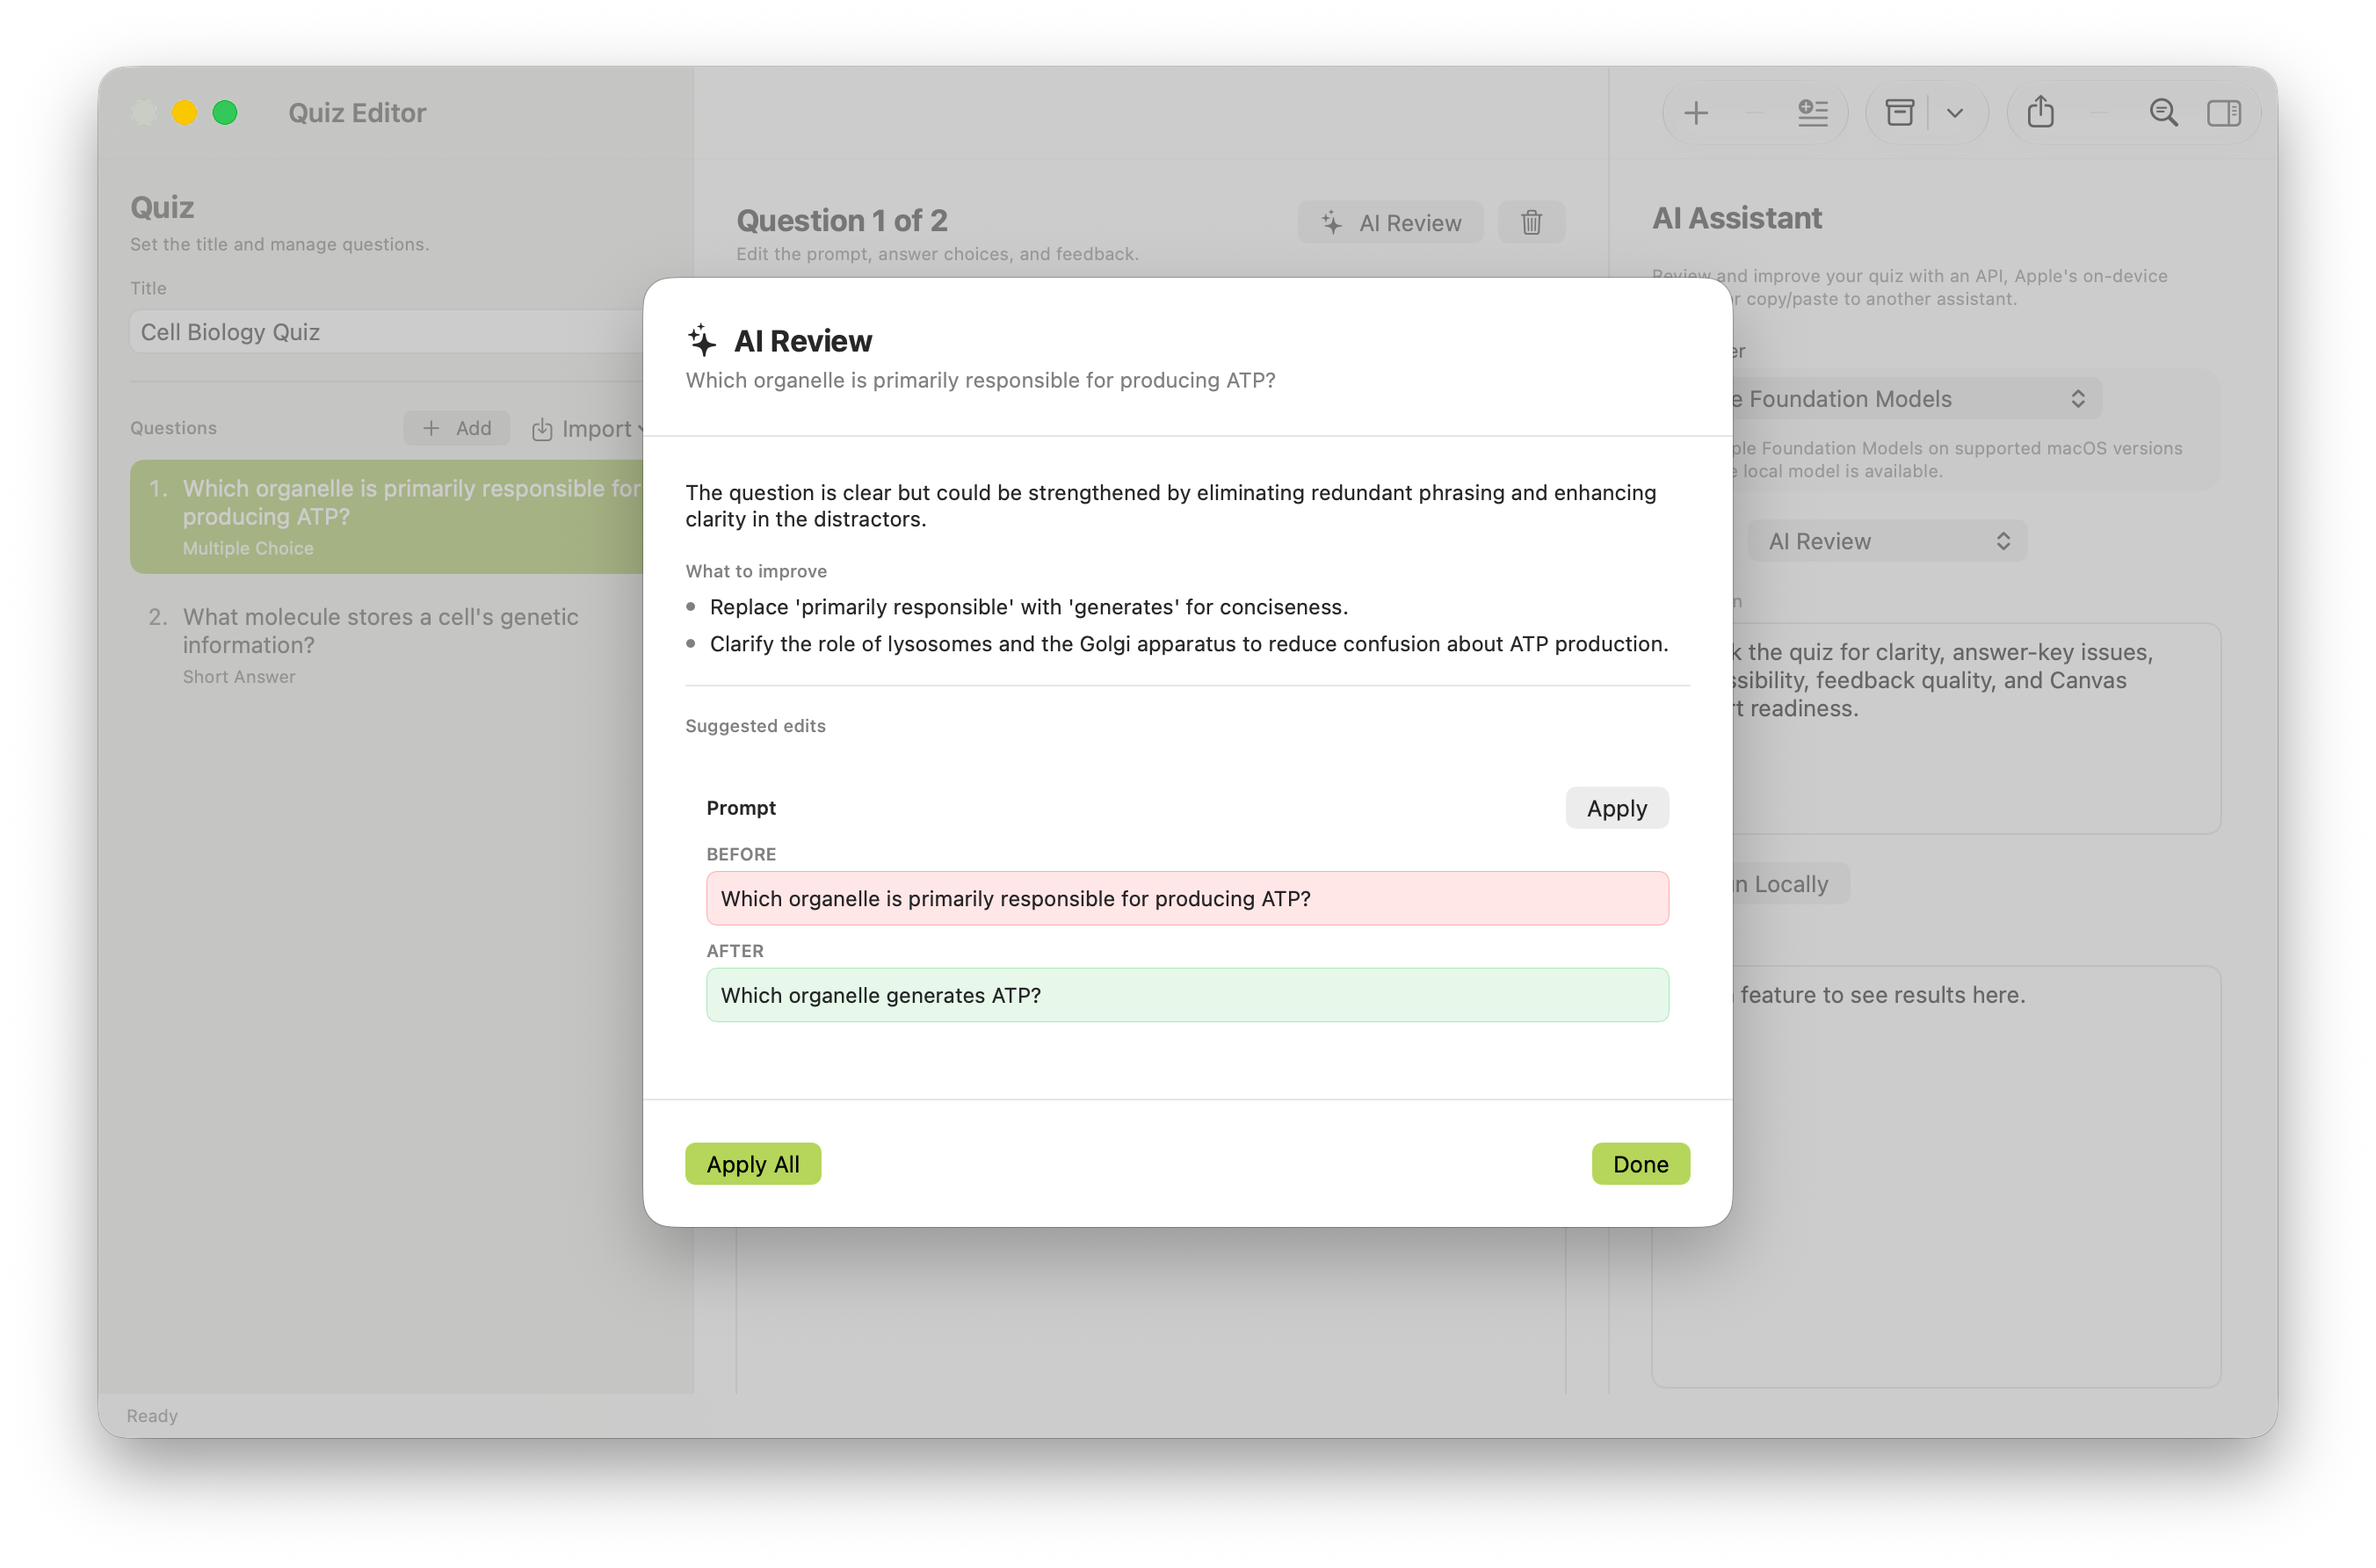
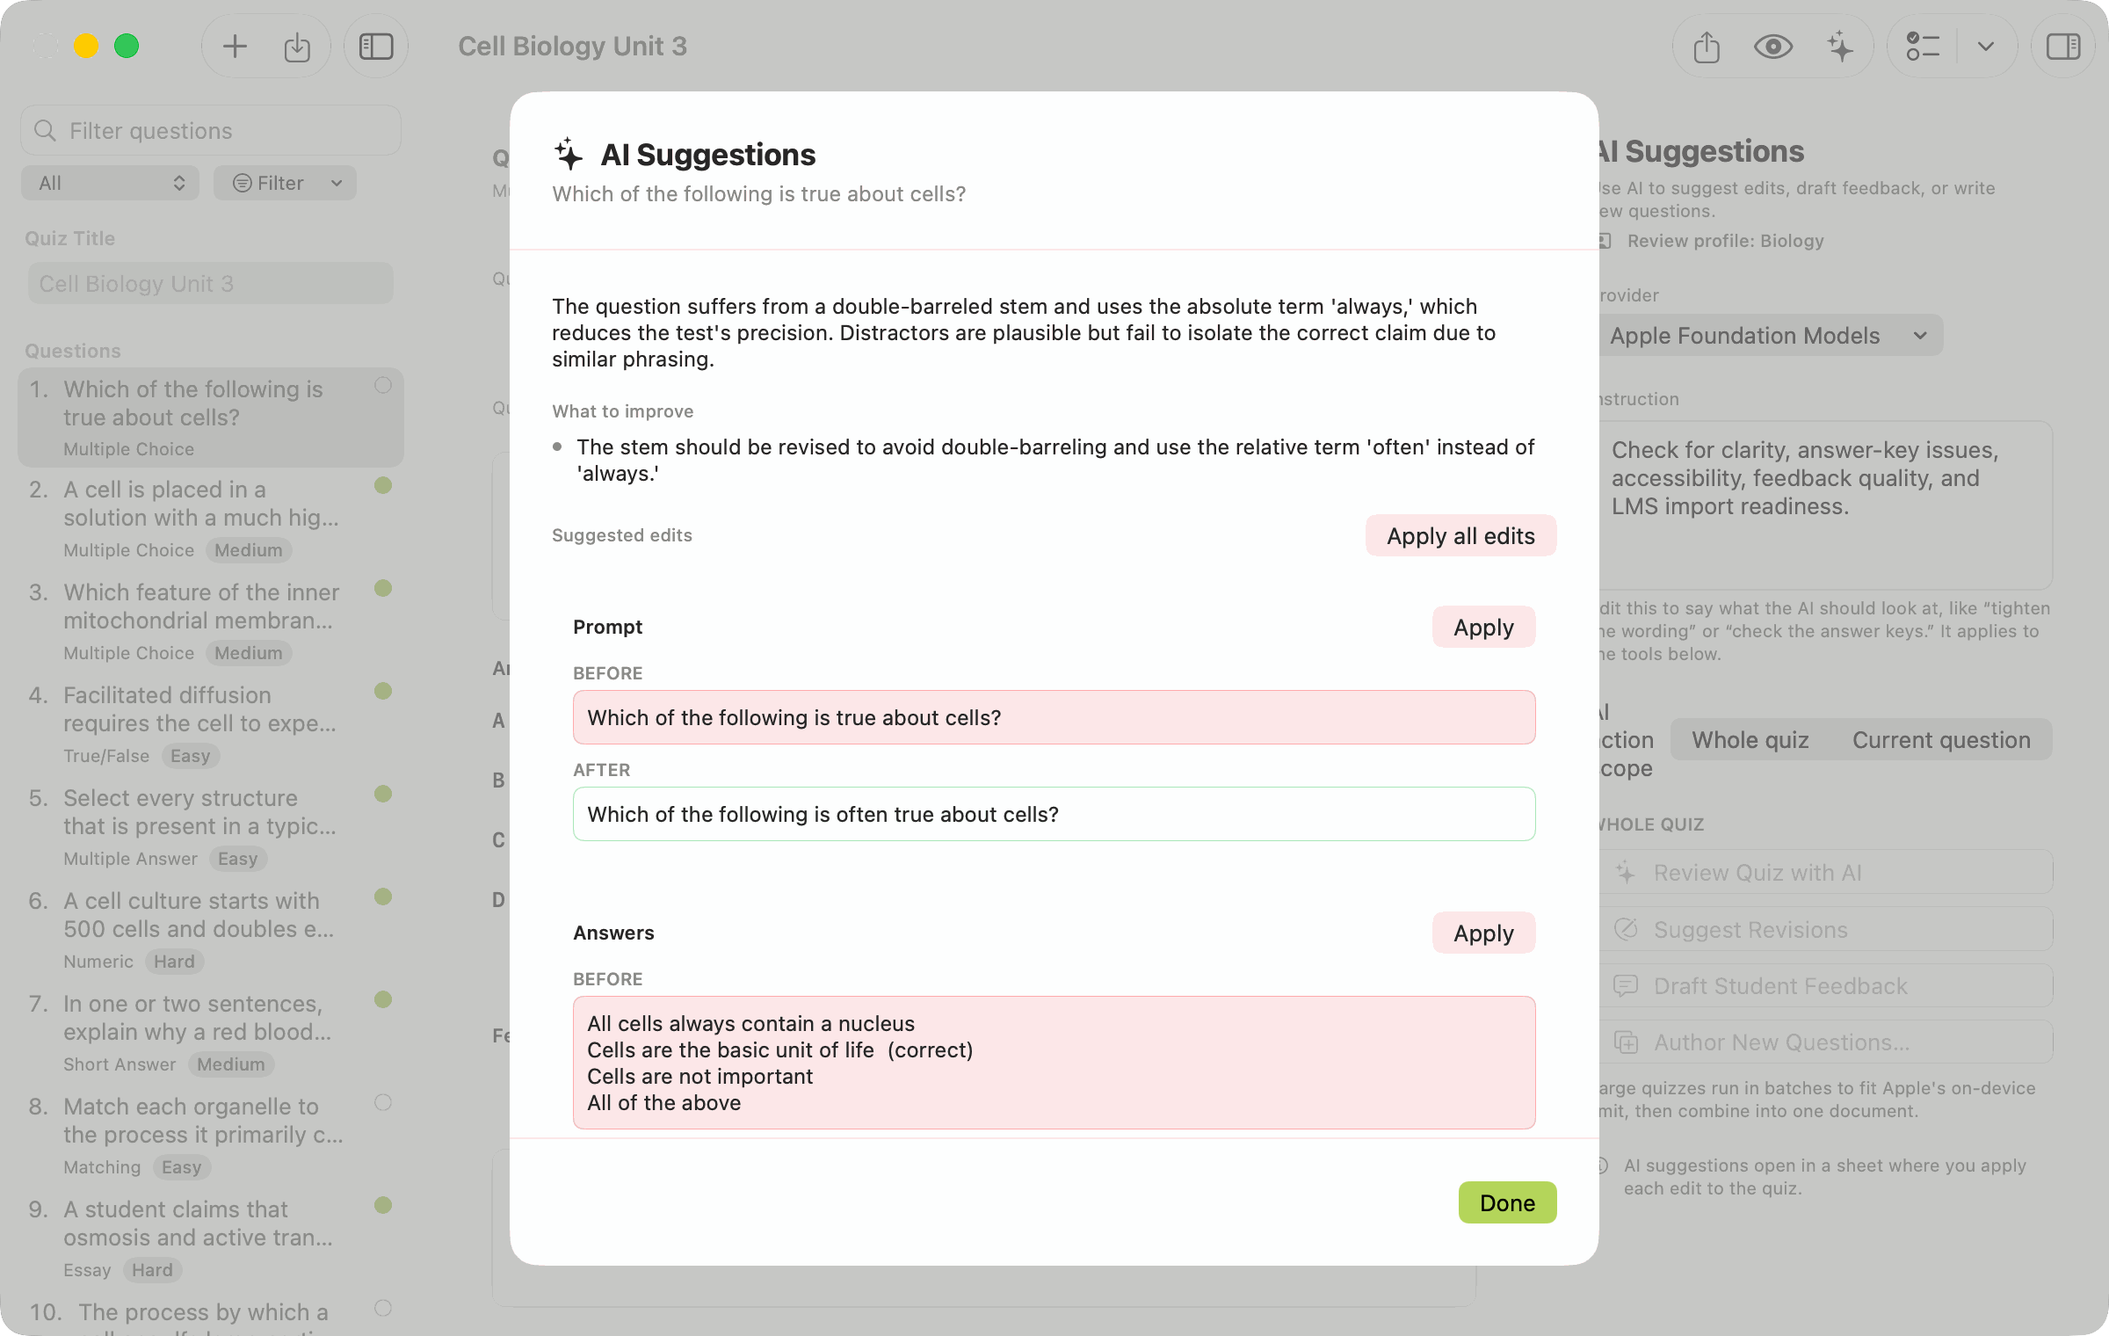
Site: refresh screenshots and review copy for the current app (#86)
The three screenshots predated the editor, toolbar, and sidebar redesign
and the Canvas question-bank import. Recaptured all three against a
10-question sample quiz:

- editor: the redesigned toolbar clusters, readiness dots in the
  sidebar, and the AI Suggestions panel
- ai-review: a real on-device review of a rough draft question,
  including the before/after rewrite with per-field Apply
- import: the Common Cartridge picker grouped by quiz and named bank,
  replacing the empty Marked Text dialog

Copy follows the app's current vocabulary (AI Suggestions, not AI
Assistant), adds the readiness badge, and notes that Canvas banks
arrive named and alphabetized. Palette-quantized the PNGs, which cuts
about 1.2 MB off the page.

Claude-Session: https://claude.ai/code/session_018gHpx1aJWCwS7xLRtM7yVn

diff --git a/docs/index.html b/docs/index.html
@@ -379,7 +379,7 @@
       </div>
       <div class="shot reveal d2">
         <img src="screenshots/editor.png" width="2400" height="1520" fetchpriority="high"
-             alt="The Quiz Editor window: a searchable question sidebar with type and difficulty labels, a question editor with type, points, and difficulty on one row above the prompt and answers, and an AI Assistant panel offering whole-quiz and single-question tools.">
+             alt="The Quiz Editor window: a searchable question sidebar listing ten questions with their type, difficulty, and a readiness dot; a question editor showing a Ready badge, the question type, a formatted stem, four answer choices with the correct one selected, and student feedback; and an AI Suggestions panel set to Apple Foundation Models with whole-quiz tools.">
       </div>
     </div>
   </section>
@@ -435,11 +435,12 @@ Type: Multiple Choice
         <p class="eyebrow"><span class="bubble filled" aria-hidden="true"></span> Review &amp; AI</p>
         <h2 class="sec">A second read for your questions, not just your spelling.</h2>
         <p>A built-in check looks over every question as you write, right on your Mac, and points out the problems experienced test-writers watch for: <strong>a question with no correct answer marked, a "not" or "except" that's easy to miss, one answer that's tellingly longer than the others, an "all of the above," a missing feedback note</strong>. It needs no internet and sees nothing but your own file. Pick a <a href="#personas">discipline</a> and these checks grow field-specific.</p>
-        <p>Want a closer look? The <strong>AI Assistant</strong> works on the whole quiz or a single question: it suggests a clearer rewrite you accept one field at a time, and drafts fresh questions, answer choices, and feedback. Use Apple's on-device models, connect your own AI service, or copy a prompt into any chatbot and paste the reply back. Long quizzes are paged into batches that fit Apple's on-device models and stitched back into one document, so length is never a wall. Your questions stay with you.</p>
+        <p>Every question also carries a plain <strong>readiness badge</strong>, Ready or Needs work, from checks that run on your Mac with no AI involved: a missing correct answer, an empty feedback note, too few choices. The sidebar shows the same signal as a dot, so you can see at a glance which questions are still drafts.</p>
+        <p>Want a closer look? <strong>AI Suggestions</strong> works on the whole quiz or a single question: it explains what to improve, offers a clearer rewrite you accept one field at a time, and drafts fresh questions, answer choices, and feedback. Use Apple's on-device models, connect your own AI service, or copy a prompt into any chatbot and paste the reply back. Long quizzes are paged into batches that fit Apple's on-device models and stitched back into one document, so length is never a wall. Your questions stay with you.</p>
       </div>
       <div class="shot reveal d1">
-        <img src="screenshots/ai-review.png" width="2704" height="1784" loading="lazy"
-             alt="The AI Review sheet: a short critique of a question, a list of item-writing improvements, and a before-and-after rewrite of the prompt you apply field by field.">
+        <img src="screenshots/ai-review.png" width="2400" height="1520" loading="lazy"
+             alt="The AI Suggestions sheet reviewing a rough draft question: a short critique noting a double-barreled stem and the absolute term always, a list of item-writing improvements, and a before-and-after rewrite of the prompt with Apply buttons for each field.">
       </div>
     </div>
   </section>
@@ -513,13 +514,14 @@ Type: Multiple Choice
         <p>When you're done, send it out three ways: <strong>up to your LMS</strong> as a standards-clean QTI file, <strong>into a document</strong> you can share or edit, or <strong>onto paper</strong> as a print-ready exam with its own answer key.</p>
         <ul class="checklist">
           <li><span class="bubble filled" aria-hidden="true"></span><span>A <b>question picker</b> with search, select-all, and a preview of each question before anything is added.</span></li>
+          <li><span class="bubble filled" aria-hidden="true"></span><span>Canvas cartridges arrive <b>grouped by quiz and by bank</b>, each bank under its own name and listed alphabetically, so you can take one bank and leave the rest.</span></li>
           <li><span class="bubble filled" aria-hidden="true"></span><span>A read-only <b>question bank</b> that gathers every question across a folder of saved quizzes.</span></li>
           <li><span class="bubble filled" aria-hidden="true"></span><span>Exports that are <b>checked before they're written</b>, so what lands in your LMS is what you wrote.</span></li>
         </ul>
       </div>
       <div class="shot reveal d1">
         <img src="screenshots/import.png" width="2400" height="1520" loading="lazy"
-             alt="The Import Marked Text dialog: a correct-answer marker setting, an empty text field showing a grey placeholder prompt, and a collapsible formatting guide.">
+             alt="The Import from Common Cartridge sheet: a summary reading two quizzes and five item banks, Select All and Select None buttons, a filter field, and a checklist grouped under each quiz and named question bank with a running count of 27 of 27 selected.">
       </div>
     </div>
   </section>
